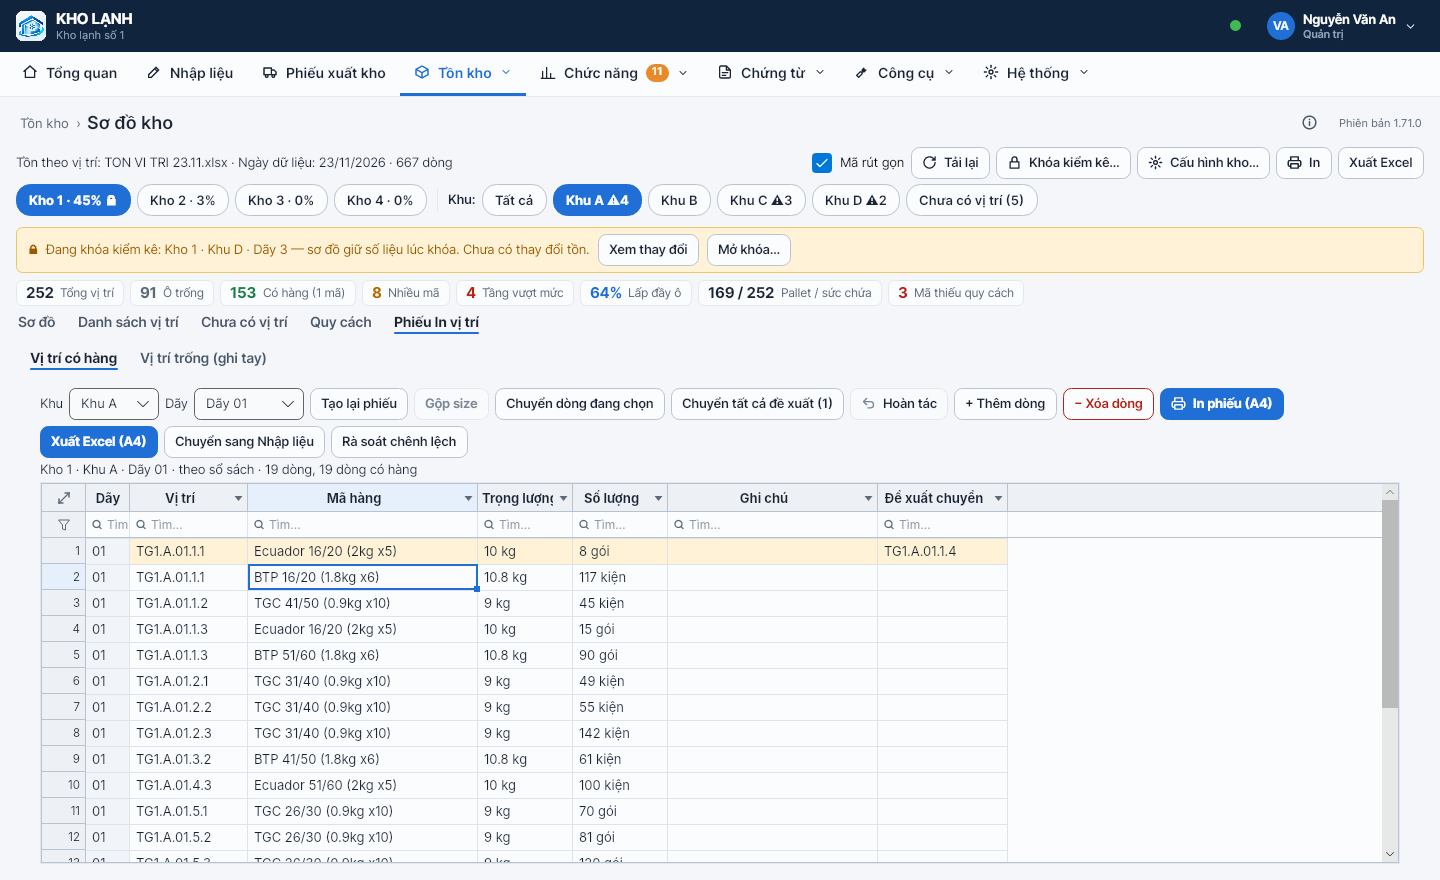
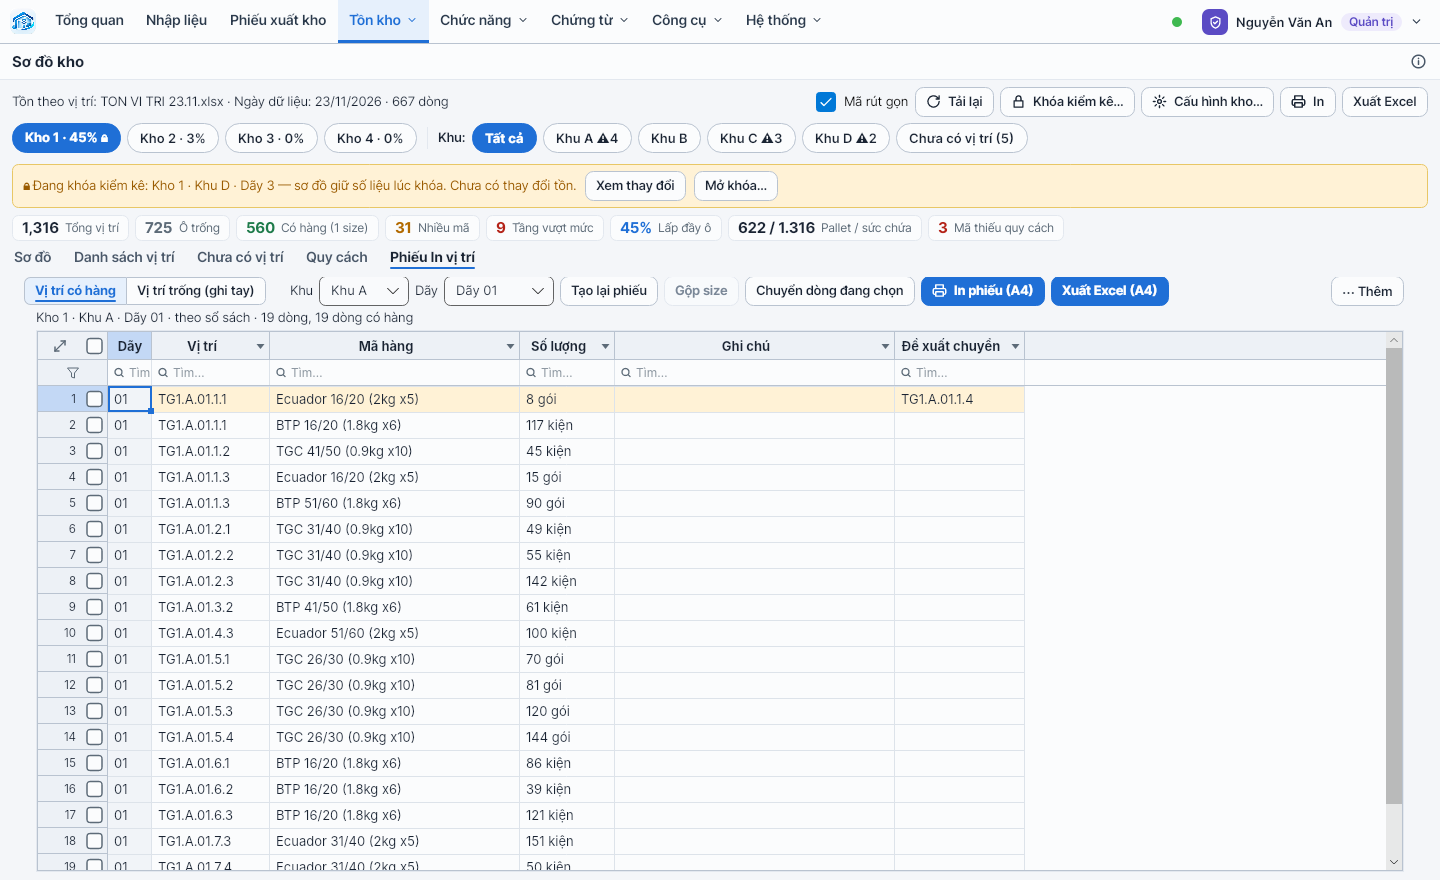
1.133.0: Phiếu In vị trí bỏ cột Trọng lượng (Mã hàng rút gọn đã có quy cách)
Claude-Session: https://claude.ai/code/session_01Mju3BD1LBDyVLQzfvZYZtr

diff --git a/src/KhoLanh.App/Views/SoDoView.cs b/src/KhoLanh.App/Views/SoDoView.cs
@@ -91,8 +91,9 @@ public sealed partial class SoDoView : UserControl, IPage
     private readonly List<Control> _kSoOnly = new(); // nút chỉ dùng ở tab Vị trí có hàng
     private static readonly GridColumn[] KkCols =
     {
-        new("d", "Dãy", 44) { ReadOnly = true }, new("vt", "Vị trí", 118), new("ma", "Mã hàng", 230), new("tl", "Trọng lượng", 95),
-        new("sl", "Số lượng", 95), new("ghi", "Ghi chú", 210), new("mv", "Đề xuất chuyển", 130) { ReadOnly = true },
+        new("d", "Dãy", 44) { ReadOnly = true }, new("vt", "Vị trí", 118), new("ma", "Mã hàng", 250),
+        new("tl", "Trọng lượng", 0) { ReadOnly = true },   // 1.133: ẩn (Mã hàng rút gọn đã có quy cách) — giữ cột rộng 0 để chỉ số cột / dữ liệu / Excel không đổi
+        new("sl", "Số lượng", 95), new("ghi", "Ghi chú", 280), new("mv", "Đề xuất chuyển", 130) { ReadOnly = true },
     };
 
     public SoDoView()

diff --git a/README.md b/README.md
@@ -110,6 +110,7 @@ App đang được dựng lại theo từng module (từ bản 1.7.0 đã gỡ c
 | Mẫu chuẩn mọi module (1.84) | Áp **phương án A** của mẫu chuẩn cho toàn app: thanh công cụ **1 hàng** (nút ít dùng vào **⋯ Thêm**, nút chính ở cuối bên phải), tab cấp 2 thành **nút gộp** nằm đầu thanh công cụ (tối đa 2 tầng tab), ô ít sửa (số phiếu, người ký…) thu vào **dòng tóm tắt** + "✎ Sửa thông tin", dòng trạng thái / đếm dòng vào **dòng Tổng** cuối bảng → bảng hiện nhiều dòng hơn ([Báo cáo rã đông](docs/anh/03i-mau-chuan-ra-dong.png), [In chứng từ kho](docs/anh/03j-mau-chuan-chung-tu.png), [Tồn kho An An](docs/anh/03k-mau-chuan-an-an.png)). |
 | Gọn ghi chú | Ghi chú hướng dẫn dài trong các trang được thu lại để bảng có thêm chỗ; xem lại bằng nút **ⓘ Hướng dẫn** ở đầu trang (liệt kê ghi chú của tab đang mở). Dòng trạng thái (số dòng, kết quả đối soát…) vẫn hiện. Bảng thấp (bảng con) tự ẩn dòng tìm kiếm cột để thấy đủ dòng — vẫn lọc bằng nút ▾ ở tiêu đề. |
 | Dữ liệu & sao lưu (1.68) | Hệ thống › **Dữ liệu & sao lưu**, 2 tab. **Đồng bộ** (chọn 1 — máy này lấy database chính từ đâu, chỉ Quản trị): 1. Chỉ trên máy này · 2. Thư mục / Google Drive dùng chung (máy chính / máy xem từ xa — trước là "Đồng bộ Google Drive"; máy xem từ xa nay cũng có nút **Chép mã đồng bộ**) · 3. Máy chủ LAN (trước là "Mạng LAN"). **Sao lưu** (dùng được với mọi cách đồng bộ, kể cả máy chủ LAN): Trên máy này (tự sao lưu mỗi ngày giữ 30 bản, sao lưu ra file, khôi phục) · **Google Drive cá nhân** — đăng nhập **Gmail** như app cũ (mở trình duyệt, quyền `drive.file`), sao lưu ngay / tự động (mỗi giờ … mỗi ngày) lên `KhoLanh_SaoLuu/<tên máy>/`, giữ 14 ngày + 12 tháng, xem bản của mọi máy, tải về, khôi phục — **không cần mã đồng bộ**, máy mới chỉ cần đăng nhập đúng Gmail (cùng Client ID). Trang cũ "Sao lưu và cài đặt" thành **Cài đặt máy**. |
+| Phiếu In vị trí gọn (1.133) | Sơ đồ kho › Phiếu In vị trí (cả 2 tab Vị trí có hàng / Vị trí trống): bỏ cột **Trọng lượng** trên bảng vì Mã hàng rút gọn đã ghi quy cách (vd "BTP 35 (1.8kg x6)") — Mã hàng / Ghi chú rộng hơn; file Excel / phiếu in vẫn có Trọng lượng như cũ. |
 | Tra cứu hàng đã xuất (1.132) | Tồn theo vị trí › tab **Tra cứu đã xuất**: mọi dòng của mọi phiếu xuất (đang mở + đã lưu trữ, PC + điện thoại), mới nhất trước — Ngày xuất · Số phiếu · Loại · Mã hàng · Tên · Size · Lô · Vị trí · SL xuất · **Tồn hiện tại ở vị trí** (tồn file đang nạp ở đúng Mã · Lô · Vị trí) · TL · Net · Trạng thái · Người lập. Ô tìm nhiều từ khóa (mã / tên / size / vị trí / lô / số phiếu), "Chỉ dòng file tồn còn hàng ở vị trí", lọc từng cột + ngày theo Năm › Tháng › Ngày, bấm đúp → mở đúng phiếu (Phiếu xuất hoặc Lưu trữ theo ngày). |
 | Bỏ máy dự phòng (1.131) | Chỉ còn **1 máy chủ** (Quản trị bật ở Đồng bộ & sao lưu › Máy chủ). Máy chủ tắt → mọi máy con làm riêng trên dữ liệu trong máy (giữ phần sửa ở sổ chờ; máy có Gmail sao lưu thì tự dùng bản Drive mới hơn khi không có phần chờ gửi), máy chủ bật lại → tự gửi phần sửa lên và gộp thành 1 bản. Máy đang làm dự phòng tự thành máy con khi mở app; quyền "Máy dự phòng LAN" bỏ khỏi Phân quyền. Kèm sửa: máy chủ cũ vừa trả vai cho máy khác không còn tự lên làm chủ lại. |
 | Nhập liệu nhanh + lệch theo vị trí (1.130) | **Nhập liệu**: gõ vị trí tắt `a0112` → `TG1.A.01.1.2` (kho theo dòng trên; `0113` = cùng kho + khu dòng trên; `tg2a0112` = kho TG2), dòng mới để trống vị trí tự lấy vị trí dòng trên; gõ phép tính như Excel ở mọi ô không có quy tắc sẵn (`5+5+5` → 15, cột số cả `3x12` / `25/2`, cột chữ thêm dạng `=10/2`; không đụng Mã hàng / Vị trí / Lô / ngày / cột công thức). **Đối chiếu kiểm kê › Đối chiếu An An**: bấm mã → khung chi tiết liệt kê lệch ở từng ô vị trí (sổ theo Tồn theo vị trí ↔ đếm, thiếu / thừa), nghi để nhầm chỗ (ô này thiếu đúng bằng ô kia thừa), ô chưa đếm gom 1 dòng; bấm vị trí → mở đúng dòng ở Nhập liệu. |

diff --git a/CLAUDE.md b/CLAUDE.md
@@ -41,6 +41,7 @@ App quản lý kho lạnh **viết lại bằng C#** (.NET 8, Avalonia, SQLite) 
 | 1.39 | Tự tạo List / phiếu theo Lịch xuất (`PNX_AutoLog` dùng chung app cũ) | `LichXuat/LichXuatAuto.cs`, `PhieuKho/PhieuKhoAuto.cs` |
 | 1.40 | Danh mục mã hàng (quyền `m3dm`) | `DanhMuc/` |
 | 1.41 | Kiểm kê nhanh (tab đầu Đối chiếu kiểm kê) | `KiemKe/KkNhanh.cs`, `Views/KiemKeView.Nhanh.cs` |
+| 1.133 | Phiếu In vị trí bỏ cột Trọng lượng (người dùng: "mã hàng rút gọn đã có trọng lượng, thêm cột chiếm không gian"): `SoDoView.KkCols` cột "tl" rộng 0 + ReadOnly (giữ chỉ số cột, `KkFromGrid` / dữ liệu / Excel giữ Trọng lượng), Mã hàng 250, Ghi chú 280; áp cả 2 tab con | `SoDoView.cs`, chụp `SHOTS_ONLY=vt` (25f / 25g) + `kkchon` |
 | 1.132 | Tồn theo vị trí tra cứu hàng đã xuất (người dùng: "thêm tìm mã hàng, size, vị trí đã xuất, để rà soát lại các mã hàng đã xuất (bạn có thể đề xuất thêm)"): `ViTriService.DaXuat` / `DaXuatList()` (mọi dòng mọi phiếu `Slips`, mới nhất trước; Size qua `SizeOf(Row{Ma = ShortCode(MaGoc), Ten})`; `TonVt` = tổng `Rows.Sl` cùng MaGoc · Lô · Vị trí, bỏ Ghost) · `ViTriView` tab "Tra cứu đã xuất" THÊM CUỐI (chỉ số 5 — giữ số thứ tự tab cũ, `_tabs.SelectedIndex = 4` = Nạp file vẫn đúng): `_xq` tìm nhiều từ (GridFilter.Fold), `_xTon` chỉ dòng còn tồn, cột ngày type date (lọc Năm › Tháng › Ngày), đề xuất thêm: cột Tồn hiện tại ở vị trí (ngay sau SL xuất, không tô màu — xuất một phần còn tồn là bình thường) + bấm đúp / nút "Mở phiếu của dòng đang chọn" → `OpenXuat` (tab Phiếu xuất, không có thì Lưu trữ theo ngày) | `ViTriService.cs`, `ViTriView.cs`, test `ViTriTests.Tra_cuu_hang_da_xuat_theo_ma_size_vi_tri`, chụp `SHOTS_ONLY=v232` (tự kiểm) |
 | 1.131 | Bỏ máy dự phòng (người dùng: "chỉ dùng 1 máy chính, nếu máy chính tắt sử dụng chế độ máy con, máy con tự lưu database trên máy hoặc Drive, khi máy chủ mở sẽ ghép các file lại thành 1"): `LanPlan.Decide(username, machineId, currentRole)` bỏ `standbyAllowed` / nhánh dự phòng (máy dự phòng cũ → máy con), `LanPlan.Fix` bỏ `standbys` (máy chủ ghi lại kế hoạch thì xóa `DuPhong`), bỏ `LanPlan.StandbyPerm` / `CanStandby` + quyền `landuphong` khỏi `Perm.Items`; `AppServices.RetireStandby` (mở app: `lan_role` = duphong → con, `ReloadLan`); `MayChuView` / `LanView` bỏ dòng / mục / nút máy dự phòng. Máy con mất máy chủ: làm riêng + sổ chờ + bản Drive (1.121), nối lại → Flush / Demote gộp (có sẵn). Kèm sửa lỗi bị che: `LanPlanSync.ApplyAtLogin` nạp lại LAN khi vai đang CHẠY khác vai đúng dù cài đặt không đổi (máy chủ cũ vừa trả vai còn chạy vai chủ; trước ô DuPhong luôn làm "có đổi"); `LanService.MaybePromote` bỏ qua khi `lan_role` đã lưu khác vai đang chạy (máy đã trả vai không tự lên làm chủ lại). `LanService` vẫn hiểu vai "duphong" cho `KhoLanh.Server` / test cũ | `LanPlan.cs`, `LanPlanSync.cs`, `AppServices.cs`, `LanService.cs`, `Permissions.cs`, `MayChuView.cs`, `LanView.axaml(.cs)`, test `LanPlanTests` (sửa theo hành vi mới + `May_du_phong_cu_tu_thanh_may_con_khi_mo_app`), chụp `SHOTS_ONLY=v213` (tự kiểm không còn máy dự phòng) |
 | 1.130 | Nhập liệu + Đối chiếu kiểm kê (người dùng duyệt 3 đề xuất: "gõ vị trí nhanh", "ô số lượng tính được", "chỉ ra lệch ở vị trí nào" + "nhập 5+5+5 = 15 ở bất cứ ô nào như Excel"): `EntryRules.VtCol` / `NormVt(text, refVt)` (gõ tắt → `SoDoCore.CodeOf`, kho / khu theo vị trí dòng trên gần nhất ≤ 300 dòng; không hiểu / không biết kho → giữ nguyên), `Derive` bước 1c (gõ vị trí → chuẩn hóa; dòng TRỐNG trước đó vừa nhập mà vị trí trống → lấy vị trí dòng trên) + bước 1b `Calc` / `CalcCell` (cột số mọi phép, cột chữ chỉ `+` `*` hoặc `=` đầu; `CalcAllowed` bỏ Mã hàng / Vị trí / Lô / date / Formula / Auto; tính bằng `CongThuc.Eval`) · `KiemKeCore.ViTriCuaMa(VtCmp, ma)` (`MaViTri`: sổ / đếm / chênh / dòng kiểm kê; `ChuaDem` = ô chưa có dòng kiểm kê nào, không tính lệch) + `NhamCho` (ghép ô thiếu = ô thừa) · `KiemKeView.ShowViTri` (khung chi tiết Đối chiếu An An, nút vị trí → `EntryView.OpenAt`) | `EntryRules.cs`, `KiemKeCore.cs`, `KiemKeView.cs`, test `NhapLieu130Tests` (5), `LechViTri130Tests` (3), chụp `SHOTS_ONLY=v230` (tự kiểm) |
